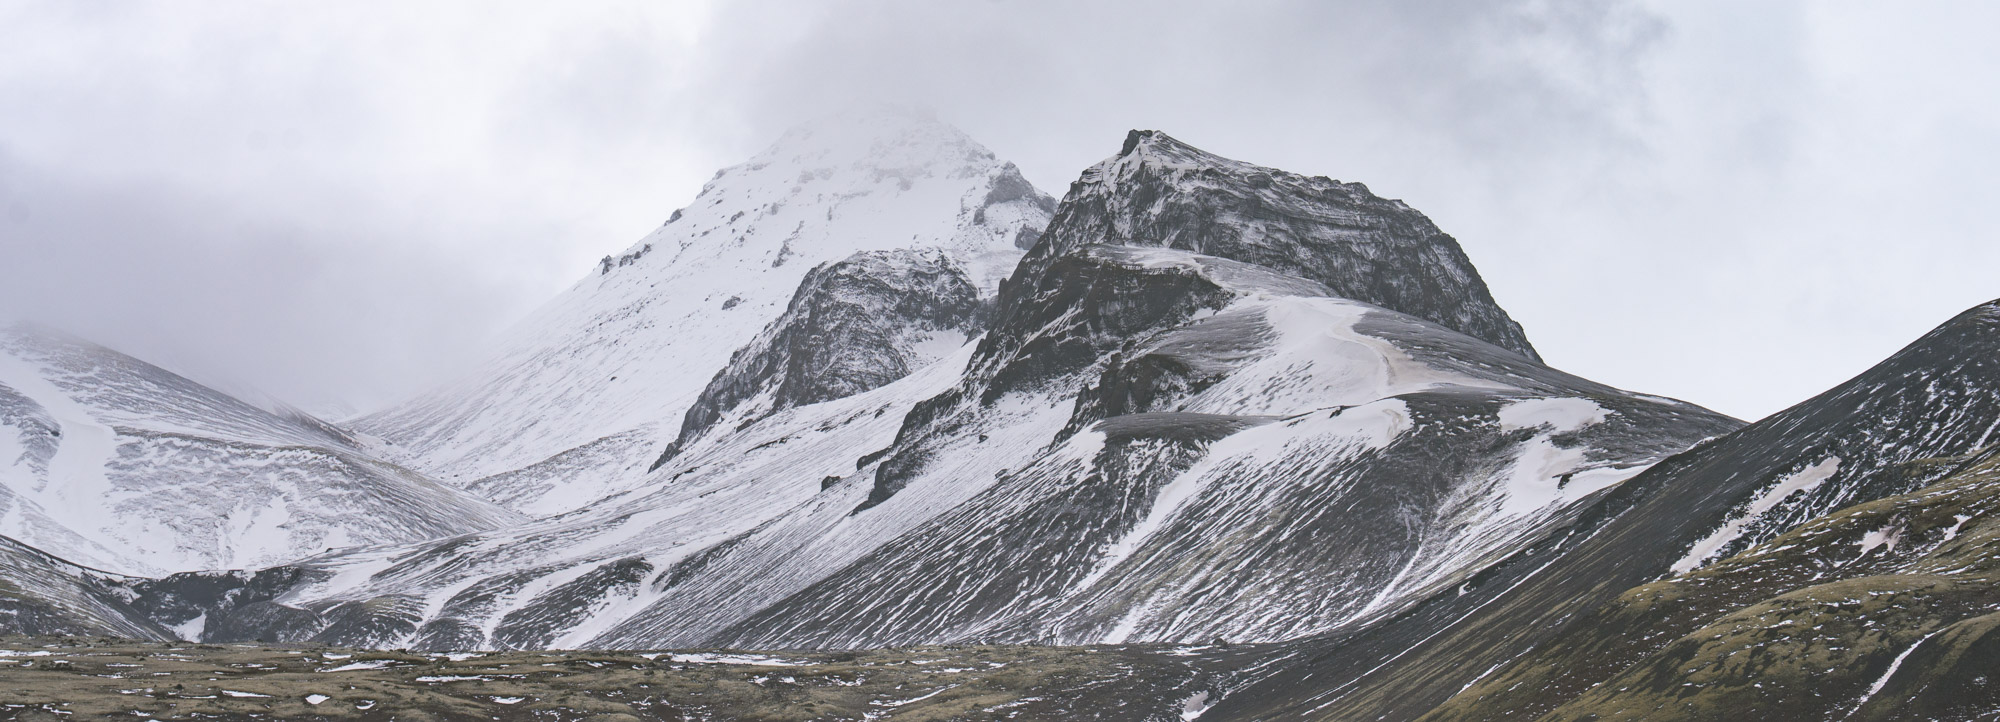
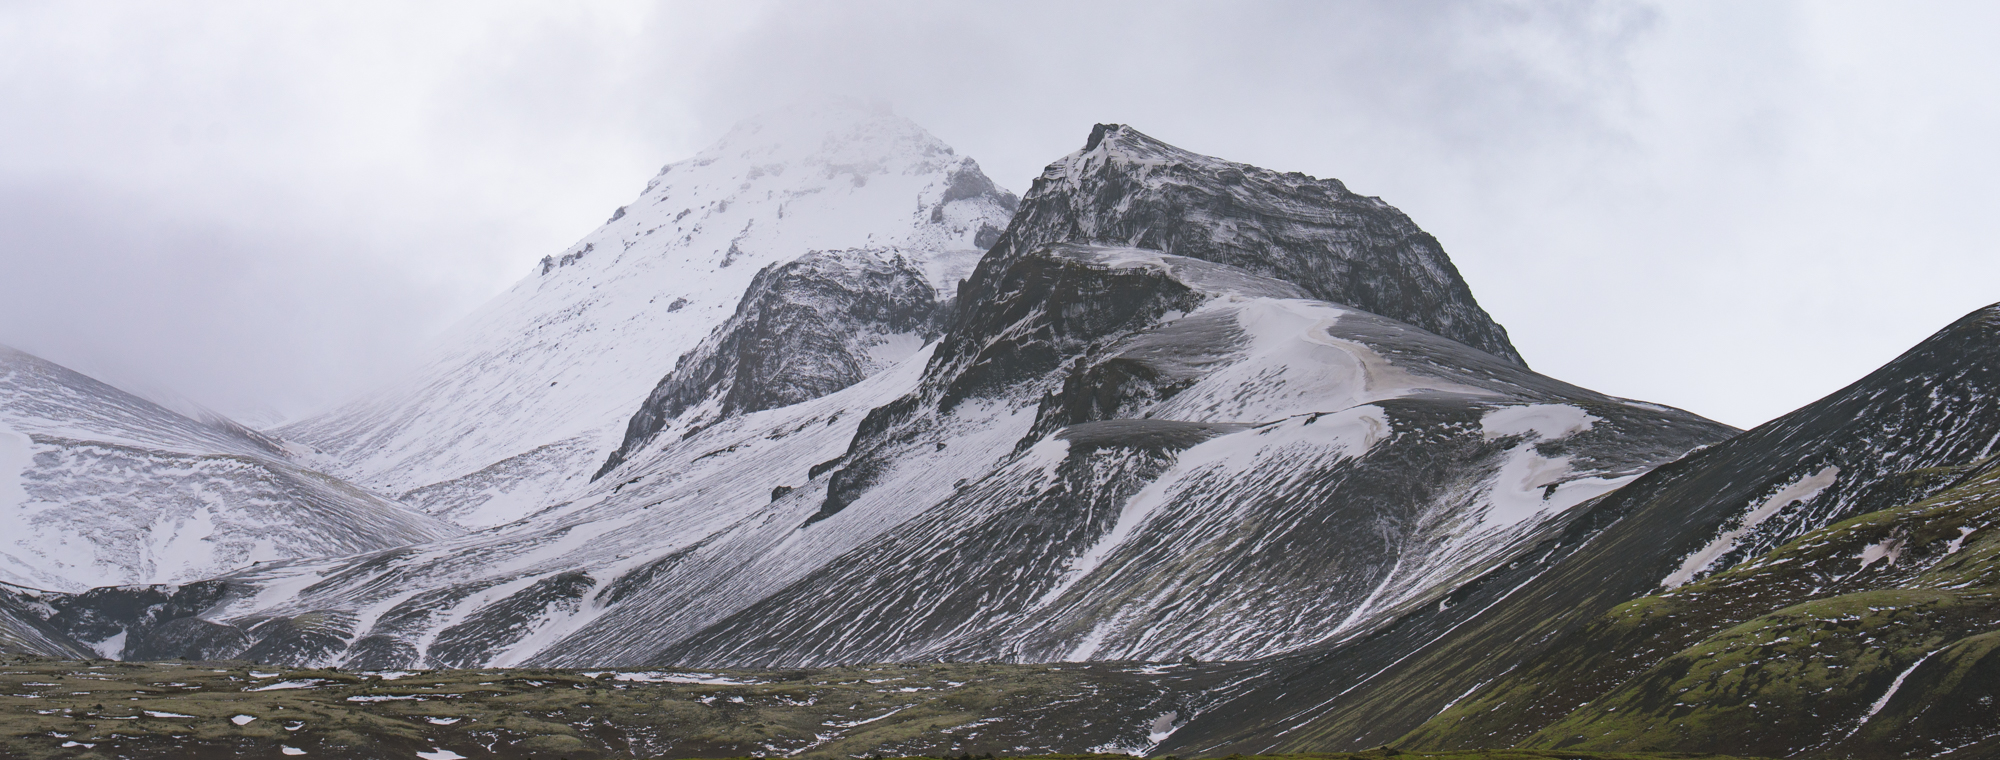
some design changes

diff --git a/src/styles/base.css b/src/styles/base.css
@@ -7,7 +7,7 @@
   html[data-theme="light"] {
     --color-fill: 251, 254, 251;
     --color-text-base: 40, 39, 40;
-    --color-accent: 135, 130, 237;
+    --color-accent: 112, 196, 160;
     --color-card: 230, 230, 230;
     --color-card-muted: 205, 205, 205;
     --color-border: 236, 233, 233;
@@ -15,10 +15,10 @@
   html[data-theme="dark"] {
     --color-fill: 53, 54, 64;
     --color-text-base: 233, 237, 241;
-    --color-accent: 149, 144, 245;
+    --color-accent: 136, 227, 200;
     --color-card: 75, 76, 89;
     --color-card-muted: 113, 85, 102;
-    --color-border: 149, 144, 245;
+    --color-border: 136, 227, 200;
   }  
   #sun-svg,
   html[data-theme="dark"] #moon-svg {
